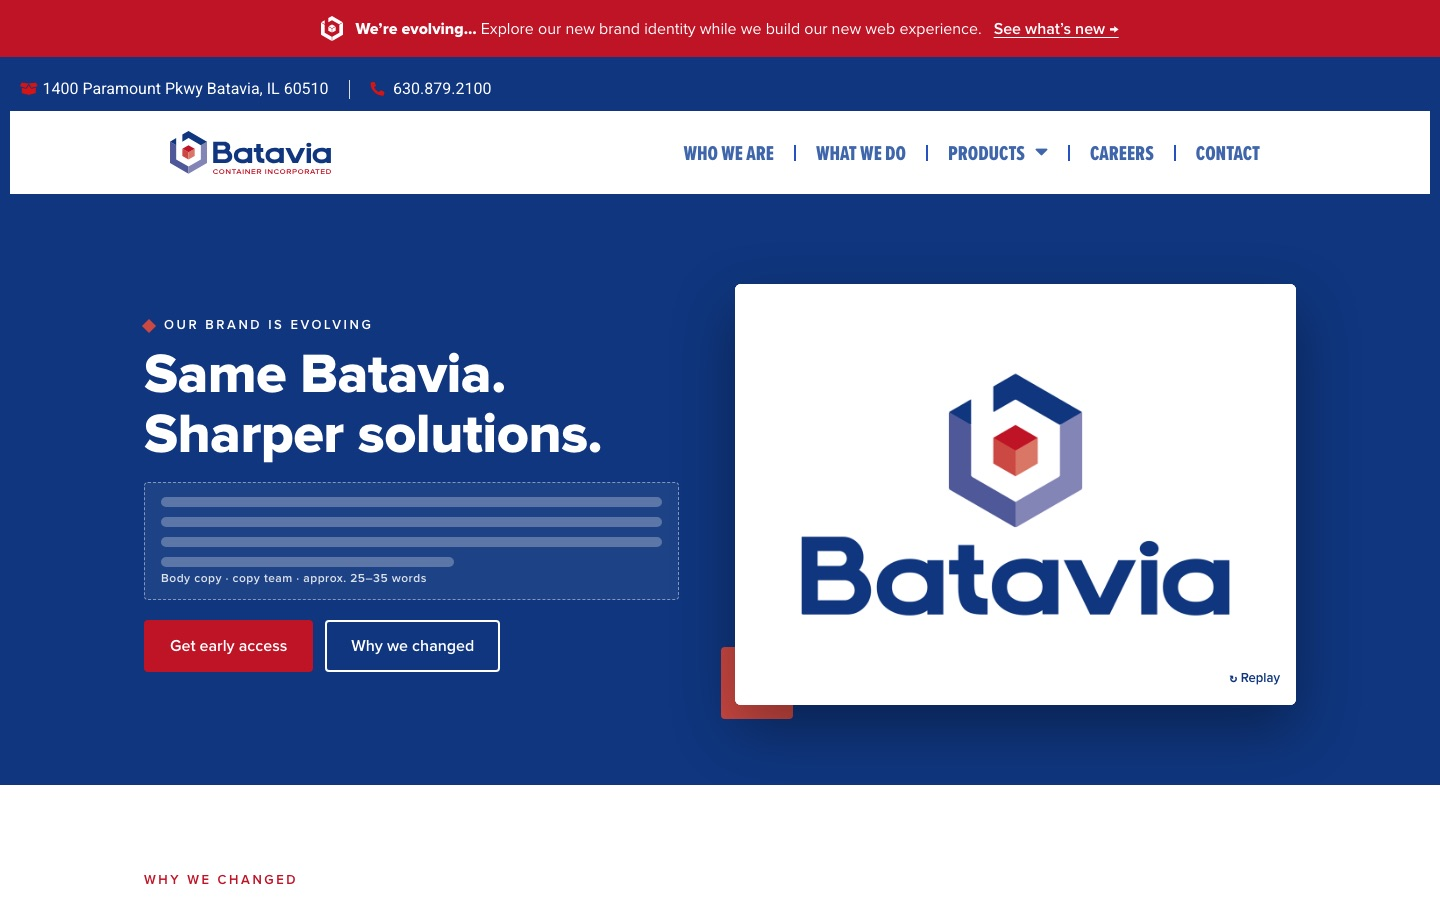
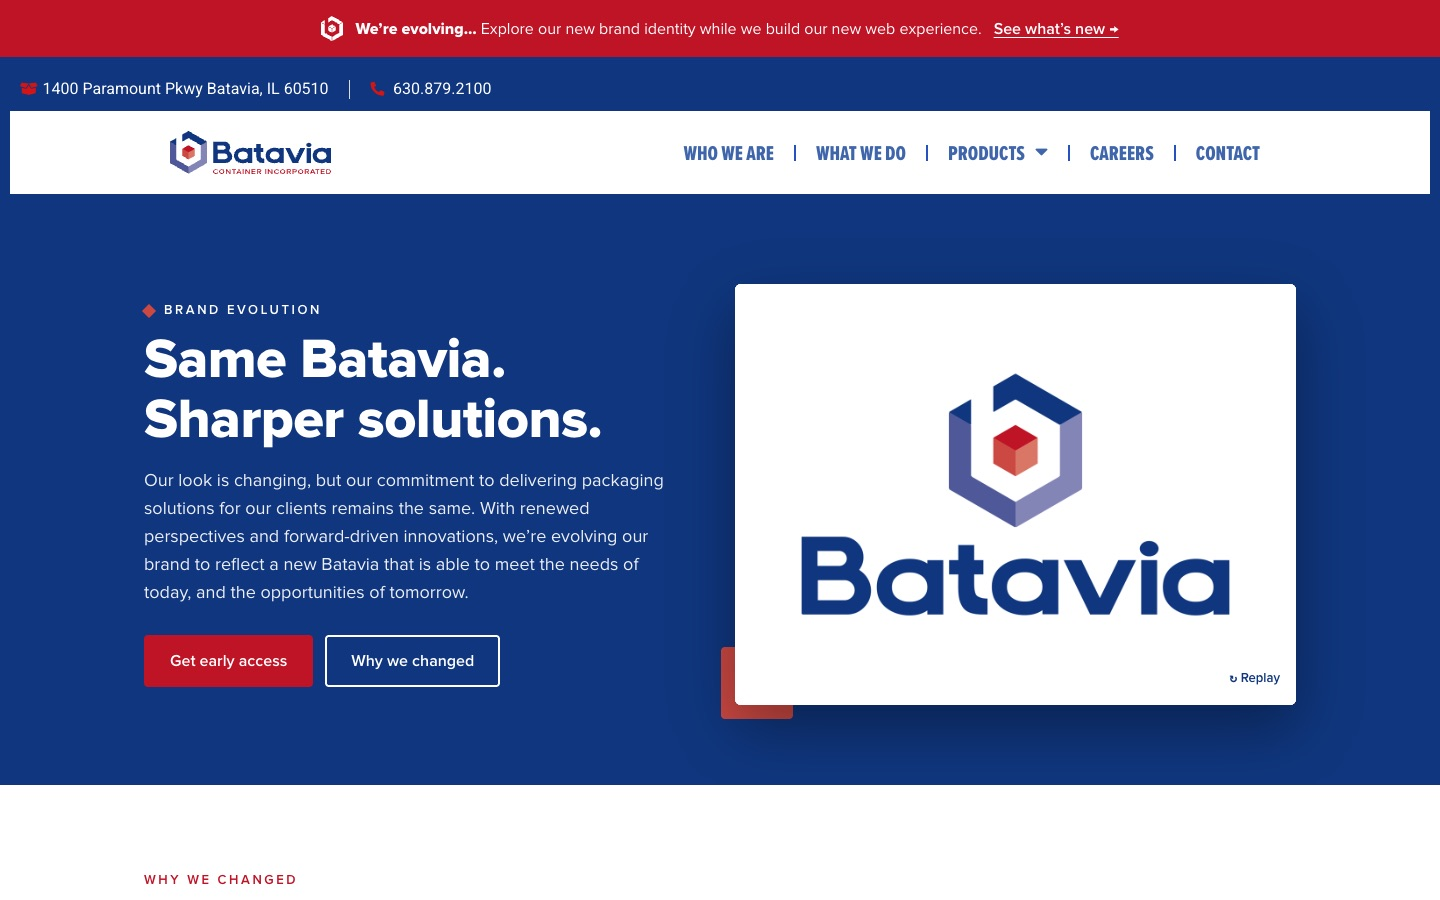
Update review mockups

Changed region(s): [[0.0938, 0.3422, 0.4688, 0.7778]]

diff --git a/live/brand-evolution.html b/live/brand-evolution.html
@@ -242,9 +242,9 @@ body .gform_wrapper .gform_title {
   <section class="be-hero">
     <div class="wrap be-hero__grid">
       <div>
-        <p class="eyebrow">Our brand is evolving</p>
+        <p class="eyebrow">Brand evolution</p>
         <h1>Same Batavia. Sharper solutions.</h1>
-        <div class="copy-tbd copy-tbd--light"><span>Body copy · copy team · approx. 25–35 words</span></div>
+        <p class="body-copy">Our look is changing, but our commitment to delivering packaging solutions for our clients remains the same. With renewed perspectives and forward-driven innovations, we’re evolving our brand to reflect a new Batavia that is able to meet the needs of today, and the opportunities of tomorrow.</p>
         <div class="be-hero__ctas">
           <a class="btn btn--red" href="#early-access">Get early access</a>
           <a class="btn btn--ghost" href="#why">Why we changed</a>
@@ -266,8 +266,8 @@ body .gform_wrapper .gform_title {
       <div>
         <p class="eyebrow">Why we changed</p>
         <h2>We grew. Our brand needed to catch up.</h2>
-        <div class="copy-tbd"><span>Body copy · copy team · approx. 60–90 words</span></div>
-      </div>
+        <p class="body-copy">While decades of experience keep us sharp, our look didn’t reflect our growth and future solutions we’re able to provide for our clients. With expanded capabilities and new technology, our brand needed to show the greater opportunities our clients can have when working with us. A refreshed look brings everything up to speed and is a clearer representation of who we are, what we do, and everything we can do.</p>
+              </div>
     </div>
   </section>
 
@@ -277,9 +277,9 @@ body .gform_wrapper .gform_title {
       <div>
         <span class="badge">Coming 2027</span>
         <h2>Our next digital experience</h2>
-        <div class="copy-tbd"><span>Body copy · copy team · approx. 25–40 words</span></div>
+        <p class="body-copy">As a premier packaging solution provider, we’re ready to answer client needs both big and small. Our new website goes more in-depth than ever before to show the creative solutions businesses are looking for. Explore possibilities from logistical, consumer, and specialty packaging to point-of-purchase displays and dynamic design, learn about our decades of history, and read about our goals moving forward on our site.</p>
         <a class="btn" href="#early-access">Be the first to see it</a>
-      </div>
+              </div>
       <div class="browser" aria-hidden="true">
         <div class="browser__bar"><i></i><i></i><i></i></div>
         <div class="browser__view">
@@ -298,8 +298,8 @@ body .gform_wrapper .gform_title {
       <div>
         <p class="eyebrow">VIP early access</p>
         <h2>Get early access.</h2>
-        <div class="copy-tbd copy-tbd--light"><span>Body copy · copy team · approx. 15–25 words</span></div>
-      </div>
+        <p class="body-copy">Stay in the loop. Enter your information below to stay updated on new opportunities and releases as we roll them out.</p>
+              </div>
       <div class="form" id="vipForm">
         <form onsubmit="event.preventDefault();document.getElementById('vipForm').classList.add('is-done');">
           <div class="form__row">

diff --git a/live/brand-evolution.css b/live/brand-evolution.css
@@ -1,7 +1,7 @@
 /* Brand Evolution landing page content.
    Everything is scoped to .be-page so the live site's header, nav and footer stay exactly as they are. */
 .be-page {
-  --blue-1: #0F367E; --blue-2: #4F5898; --blue-3: #8485B7; --blue-90: #294488;
+  --blue-1: #0F367E; --blue-2: #4F5898; --blue-3: #8485B7;
   --red-1: #BF1326; --red-2: #CC4842;
   --black: #231F20; --black-80: #58595B; --black-60: #808285;
   --paper: #F5F5F5; --white: #FFFFFF;
@@ -133,7 +133,7 @@ header[data-elementor-type="header"] { position: relative; z-index: 10; }
 @media (max-width: 1023px) { .be-page .digital__grid { grid-template-columns: 1fr; gap: 36px; } }
 
 /* VIP form */
-.be-page .vip { background: var(--blue-90); color: var(--white); position: relative; overflow: hidden; }
+.be-page .vip { background: #294488; /* one-off: 90% PMS 288, VIP section only */ color: var(--white); position: relative; overflow: hidden; }
 .be-page .vip::before { content: ""; position: absolute; right: -80px; top: -60px; width: 420px; height: 420px; background: url("../assets/batavia-mark-white.svg") center/contain no-repeat; opacity: .06; }
 .be-page .vip__grid { position: relative; display: grid; grid-template-columns: 1fr 1fr; gap: 64px; align-items: center; }
 .be-page .vip .eyebrow, .be-page .vip h2 { color: var(--white); }
@@ -177,3 +177,8 @@ header[data-elementor-type="header"] { position: relative; z-index: 10; }
 
 /* In-page links (#why, #early-access) stop below the pinned announcement bar */
 .be-page section[id] { scroll-margin-top: 72px; }
+
+/* Body copy (copy team, Nov 15) */
+.be-page .body-copy { max-width: 36em; margin: 0 0 28px; font-size: 18px; line-height: 28px; }
+.be-page .be-hero .body-copy, .be-page .vip .body-copy { color: rgba(255,255,255,.92); }
+@media (max-width: 767px) { .be-page .body-copy { font-size: 17px; line-height: 26px; } }
